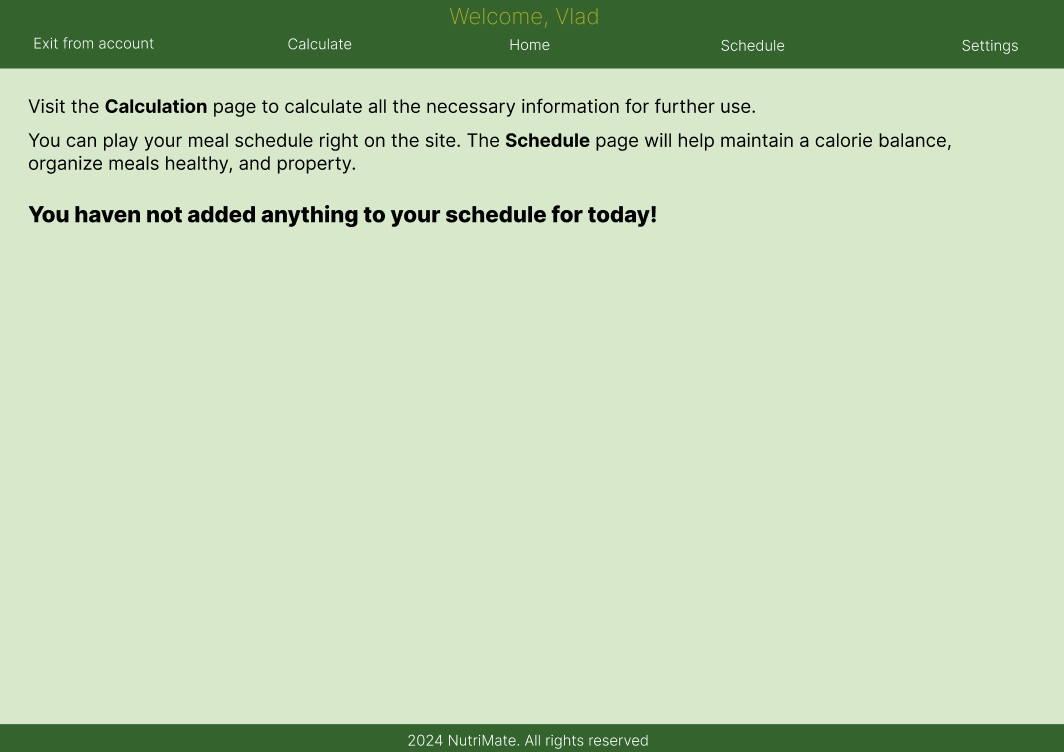
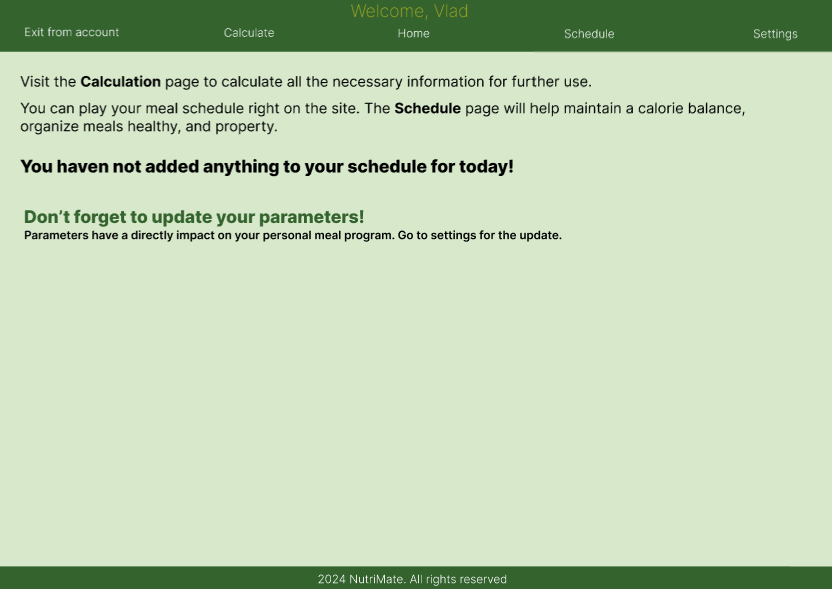
html structure changes and adding new prototypes

diff --git a/calculate.html b/calculate.html
@@ -1,0 +1,82 @@
+<!doctype html>
+<html lang="en">
+<head>
+    <meta charset="UTF-8">
+    <meta name="viewport" content="width=device-width, initial-scale=1.0">
+    <title>Calculate page - NutriMate</title>
+</head>
+<body>
+    
+    <header>
+        <div>
+            <h2>Welcome, USERNAME</h2>
+        </div>
+        <nav>
+            <ul>
+                <li><button">Exit from account</button></li>
+                <li><a href="/calculate.html">Calculate</a></li>
+                <li><a href="/home.html">Home</a></li>
+                <li><a href="/schedule.html">Schedule</a></li>
+                <li><a href="/settings.html">Settings</a></li>
+            </ul>
+        </nav>
+    </header>
+
+    <main>
+        <div>
+            <p>The calculator will help you calculate online your <strong>daily calorie needs, body mass index (BMI)</strong>, and will also show recommendations for calorie intake for weight loss or weight gain.</p>
+            <p>To calculate your daily calorie intake and body index, answer a few questions.<br>
+            Before submitting, please check correctness of early entered information in "My account" page.</p>
+        </div>
+
+        <form action="#" method="post">
+            <div>
+                <h3>Daytime activity*:</h3>
+                <label><input type="radio" name="activity" value="sedentary" required> Sedentary</label><br>
+                <label><input type="radio" name="activity" value="low"> Low active</label><br>
+                <label><input type="radio" name="activity" value="active"> Active</label><br>
+                <label><input type="radio" name="activity" value="very_active"> Very active</label><br>
+            </div>
+
+            <div>
+                <h3>Diet goal:</h3>
+                <label><input type="radio" name="goal" value="lose_weight" required> Lose weight</label><br>
+                <label><input type="radio" name="goal" value="maintain"> Maintain my current weight</label><br>
+                <label><input type="radio" name="goal" value="gain_weight"> Gain weight</label><br>
+            </div>
+
+            <button type="submit">Submit</button>
+        </form>
+
+        <table>
+            <tr>
+                <th>Daytime activity</th>
+                <th>Description</th>
+            </tr>
+            <tr>
+                <td>Sedentary</td>
+                <td>Sedentary work, lack of sports</td>
+            </tr>
+            <tr>
+                <td>Low activity</td>
+                <td>Light physical exercise about 3 times a week, daily morning exercises, walking</td>
+            </tr>
+            <tr>
+                <td>Active</td>
+                <td>Sports up to 5 times a week</td>
+            </tr>
+            <tr>
+                <td>Very active</td>
+                <td>Maximum activity - sports lifestyle, hard physical work, long hard workouts every day</td>
+            </tr>
+        </table>
+    </main>  
+
+    <footer>
+        <div>
+            <p>&copy; 2024 NutriMate. All rights reserved.</p>
+        </div>
+    </footer>
+
+</body>
+</html>

diff --git a/settings.html b/settings.html
@@ -1,0 +1,98 @@
+<!doctype html>
+<html lang="en">
+<head>
+    <meta charset="UTF-8">
+    <meta name="viewport" content="width=device-width, initial-scale=1.0">
+    <title>Settings page - NutriMate</title>
+</head>
+<body>
+    
+    <header>
+        <div>
+            <h2>Welcome, USERNAME</h2>
+        </div>
+        <nav>
+            <ul>
+                <li><button">Exit from account</button></li>
+                <li><a href="/calculate.html">Calculate</a></li>
+                <li><a href="/home.html">Home</a></li>
+                <li><a href="/schedule.html">Schedule</a></li>
+                <li><a href="/settings.html">Settings</a></li>
+            </ul>
+        </nav>
+    </header>
+
+    <main>
+        <section>
+            <h3>Personal info, goals</h3>
+            <table border="1">
+                <tr>
+                    <td>Name</td>
+                    <td>USERNAME</td>
+                </tr>
+                <tr>
+                    <td>Email</td>
+                    <td>example@gmail.com</td>
+                </tr>
+                <tr>
+                    <td>Date of Birth</td>
+                    <td>DATE</td>
+                </tr>
+                <tr>
+                    <td>Gender</td>
+                    <td>GENDER</td>
+                </tr>
+                <tr>
+                    <td>Weight</td>
+                    <td>NUMBER</td>
+                </tr>
+                <tr>
+                    <td>Goal Weight</td>
+                    <td>NUMBER</td>
+                </tr>
+                <tr>
+                    <td>Height</td>
+                    <td>NUMBER</td>
+                </tr>
+                <tr>
+                    <td>Diet goal</td>
+                    <td>Maintain current weight</td>
+                </tr>
+                <tr>
+                    <td>Daytime activity</td>
+                    <td>Low activity</td>
+                </tr>
+            </table>
+        </section>
+
+        <p>The account was created in DATE;</p>
+        <p>You can <a href="#">update your account info.</a></p>
+
+        <section>
+            <h3>General settings</h3>
+            <p>Language <span>En</span></p>
+            <p>Dark Theme <input type="checkbox" checked></p>
+        </section>
+
+        <section>
+            <h3>Password changes</h3>
+            <form action="#" method="post">
+                <label for="current-password">Current password</label>
+                <input type="password" id="current-password" name="current-password"><br>
+
+                <label for="new-password">New password</label>
+                <input type="password" id="new-password" name="new-password"><br>
+
+                <button type="submit">Change</button>
+            </form>
+        </section>
+    </main>  
+
+    <footer>
+        <div>
+            <p>&copy; 2024 NutriMate. All rights reserved.</p>
+        </div>
+    </footer>
+
+</body>
+</html>

diff --git a/home.html b/home.html
@@ -1,0 +1,44 @@
+<!doctype html>
+<html lang="en">
+<head>
+    <meta charset="UTF-8">
+    <meta name="viewport" content="width=device-width, initial-scale=1.0">
+    <title>Home page - NutriMate</title>
+</head>
+<body>
+    
+    <header>
+        <div>
+            <h2>Welcome, USERNAME</h2>
+        </div>
+        <nav>
+            <ul>
+                <li><button">Exit from account</button></li>
+                <li><a href="/calculate.html">Calculate</a></li>
+                <li><a href="/home.html">Home</a></li>
+                <li><a href="/schedule.html">Schedule</a></li>
+                <li><a href="/settings.html">Settings</a></li>
+            </ul>
+        </nav>
+    </header>
+
+    <main>
+        <div>
+            <p>Visit the <strong>Calculation</strong> page to calculate all the necessary information for further use.</p>
+            <p>You can play your meal schedule right on the site. The <strong>Schedule</strong> page will help maintain a calorie balance, organize meals healthy, and properly.</p>
+
+            <h3><strong>You haven not added anything to your schedule for today!</strong></h3>
+
+            <h4><strong>Don’t forget to update your parameters!</strong></h4>
+            <p>Parameters have a directly impact on your personal meal program. Go to settings for the update.</p>
+        </div>
+    </main>   
+
+    <footer>
+        <div>
+            <p>&copy; 2024 NutriMate. All rights reserved.</p>
+        </div>
+    </footer>
+
+</body>
+</html>

diff --git a/history.html b/history.html
@@ -3,7 +3,7 @@
 <head>
     <meta charset="UTF-8">
     <meta name="viewport" content="width=device-width, initial-scale=1.0">
-    <title>Schedule page - NutriMate</title>
+    <title>History page - NutriMate</title>
 </head>
 <body>
     
@@ -86,28 +86,10 @@
             </tr>
         </table>
 
-        <p>Last update: DATE</p>
-
         <p>Week NUMBER</p>
-        <p>My NutriHistory</p>
 
-        <div>
-            <h3>Search for product here:</h3>
-            <input type="text" placeholder="Enter text to search">
-            <button>Search</button>
-        </div>
-
-        <div>
-            <h4>Amount of products found: AMOUNT</h4>
-            <ol>
-                <li>PRODUCT 1</li>
-                <li>PRODUCT 2</li>
-            </ol>
-            <p><input type="text" placeholder="Day, Breakfast, ID, Amount"> <button>Add</button></p>
-        </div>
-
-        <p><input type="text" placeholder="Day, Breakfast, ID"> <button>Detele</button></p>
-        <button>Reset schedule</button>
+        <button>LEFT ARROW</button>
+        <button>RIGHT ARROW</button>
     </main>    
 
     <footer>

diff --git a/index.html b/index.html
@@ -18,10 +18,12 @@
                 <li><a href="login.html">Log In</a></li>
             </ul>
         </nav>
+    </header>
 
+    <main>
         <section class="under-nav">
             <div class="left-content">
-                <img src="" alt="NutriMate logo" />
+                <img src="./img/logo.png" alt="NutriMate logo" />
                 <h1>NutriMate</h1>
                 <h2>The Calorie Cruncher & Meal Manager</h2>
                 <a href="/lab1/registration.html"><button>Start for free</button></a>
@@ -31,9 +33,7 @@
                 <img src="./img/food.jpg" alt="Healthy food" />
             </div>
         </section>
-    </header>
 
-    <main>
         <section>
             <h3>Superb 100% FREE calorie counter app.</h3>
             <p>Start your weight loss journey today and get access to the world's highest quality food and nutrition database. Want lasting change? Get expert advice on what, when, and how much to eat, tailored to suit your individual lifestyle.</p>

diff --git a/registration.html b/registration.html
@@ -22,7 +22,7 @@
 
     <main>
         <section class="registration">
-            <img src="" alt="NutriMate logo" />
+            <img src="./img/logo.png" alt="NutriMate logo" />
             <h1>NutriMate</h1>
             <h3>My NutriMate account</h3>
             <form action="/submit_registration" method="post">
@@ -88,7 +88,6 @@
         </section>
     </main>
     
-
     <footer>
         <div>
             <section>

diff --git a/businessLogic.html b/businessLogic.html
@@ -21,9 +21,10 @@
     </header>
 
     <main>
-        <h1>Calorie Counting Service</h1>
-    
+        <img src="./img/logo.png" alt="NutriMate logo" />
         <h2>Business Logic Description</h2>
+
+        <h3>Usage of NutriMate</h3>
         <p>Our service helps users control their diet, track calorie intake and achieve their weight goals.</p>
     
         <h3>Service Functionality:</h3>

diff --git a/login.html b/login.html
@@ -22,7 +22,9 @@
 
     <main>
         <section class="login">
-            <h1>Log In to Your NutriMate Account</h1>
+            <img src="./img/logo.png" alt="NutriMate logo" />\
+            <h1>NutriMate</h1>
+            <h1>My NutriMate account</h1>
             <form action="/submit_login" method="post">
                 <fieldset>
                     <legend>Login</legend>

diff --git a/README.md b/README.md
@@ -31,5 +31,8 @@
 #### Schedule page:
 ![Schedule page](./img/prototype/schedule.png)
 
+#### History page:
+![Schedule page](./img/prototype/history.png)
+
 #### Settings page:
 ![Settings page](./img/prototype/settings.png)
